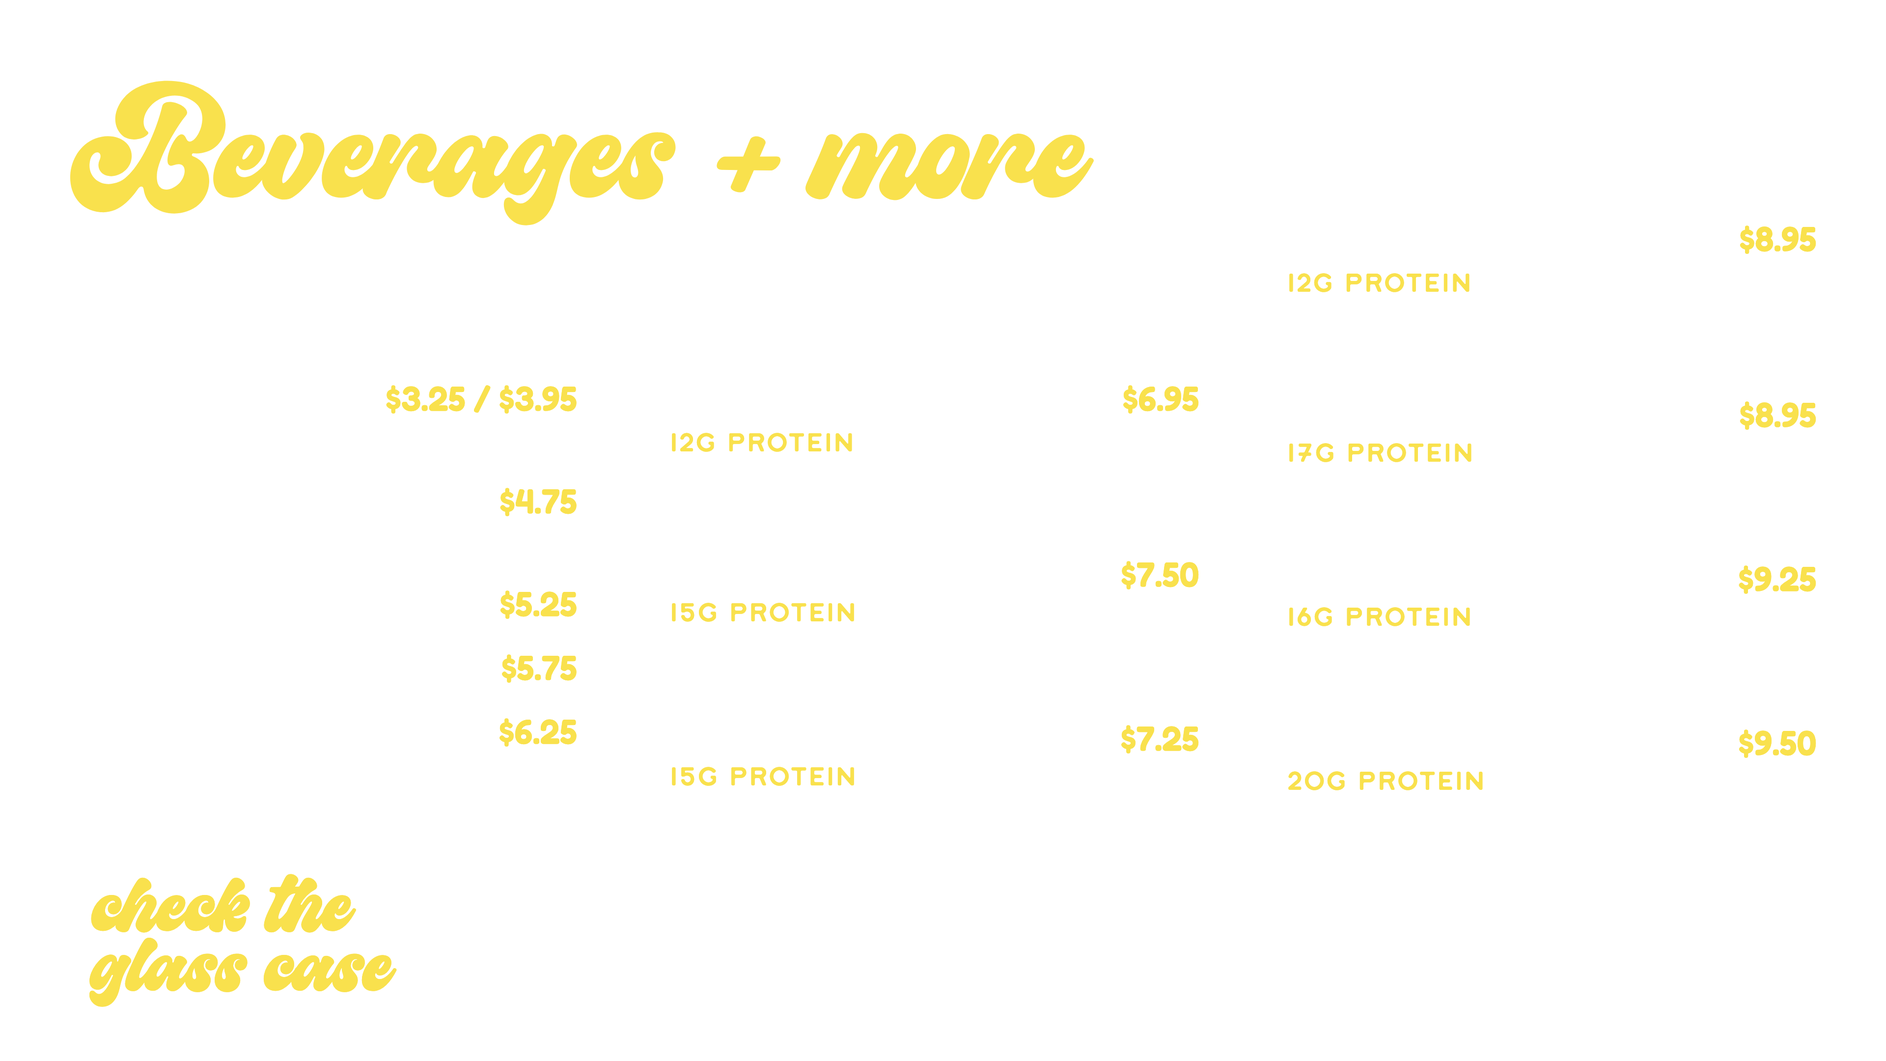
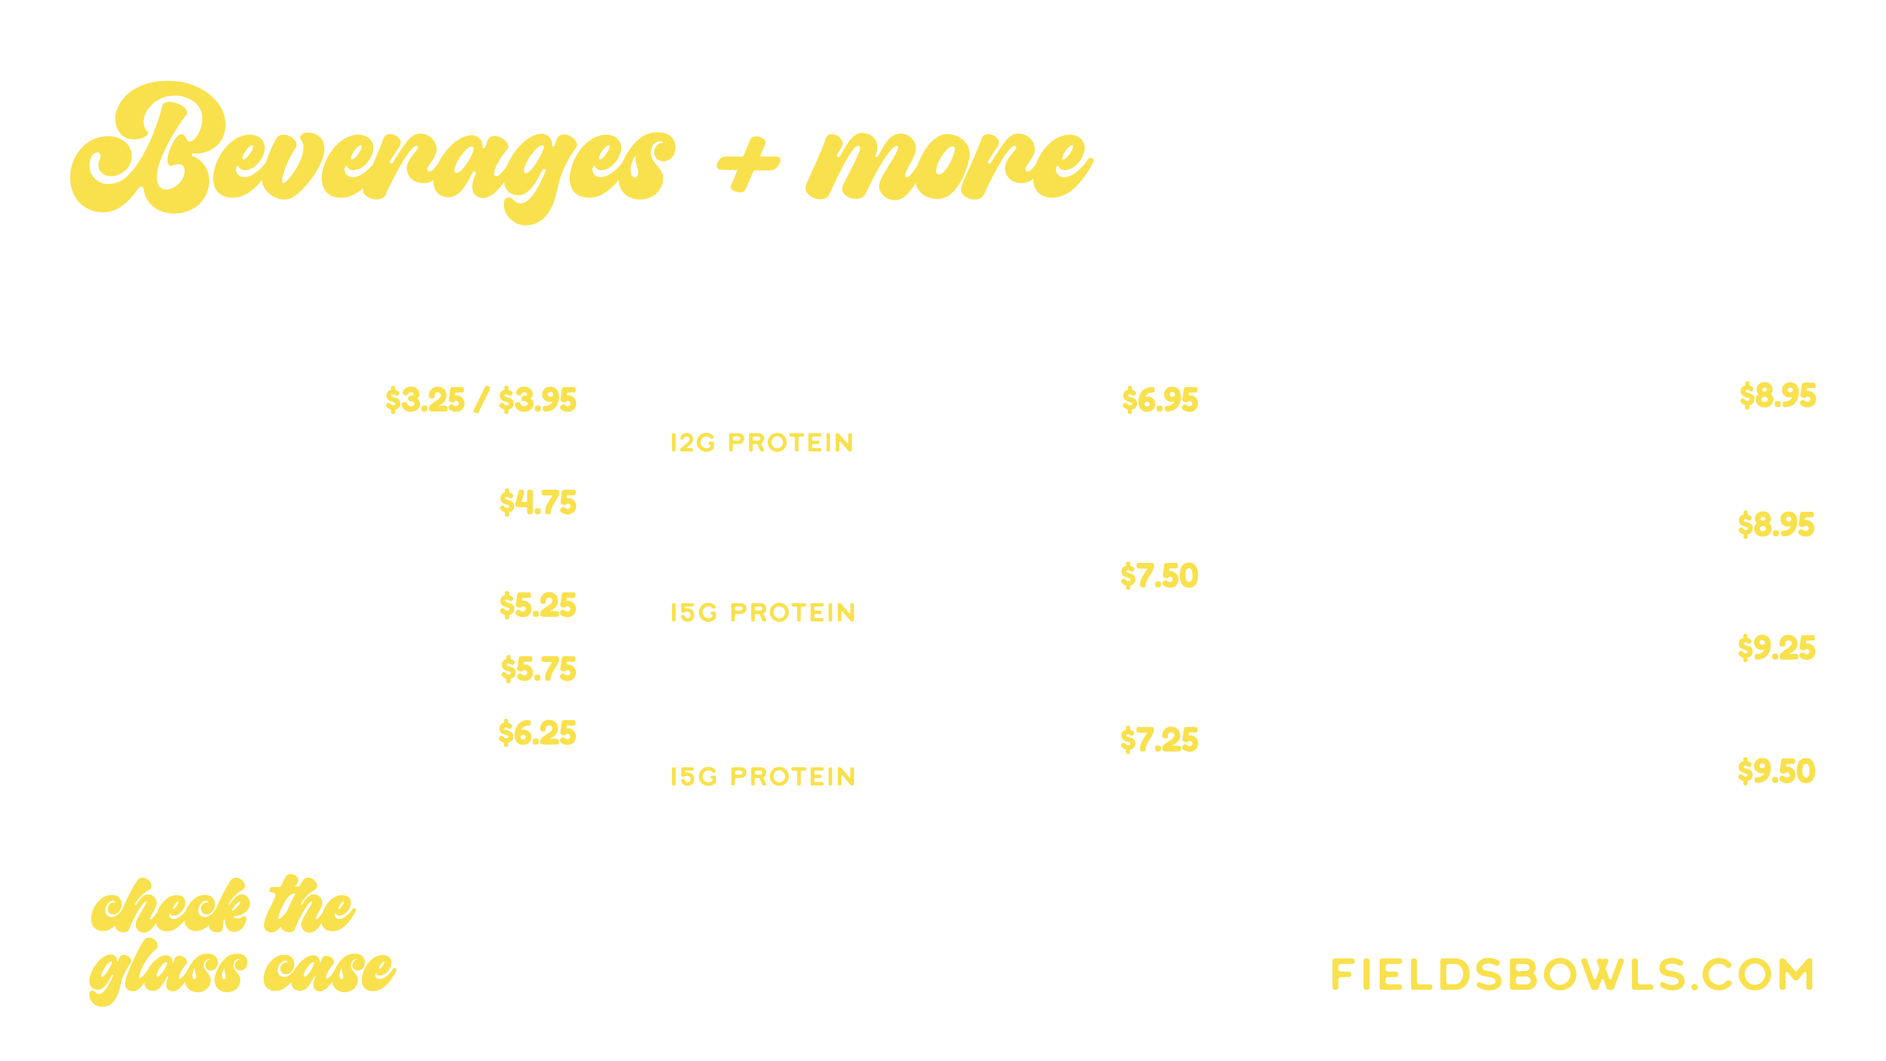
Grass D3 from Figma "Beverages UPDATED": Refreshers, Matcha Latte, fieldsbowls.com
Smoothies replaced by Refreshers (Arnold Palmer, Valencia, Flamingo, Bluebird), Matcha
Protein Latte renamed Matcha Latte, item names in Heart of the Land, FIELDSBOWLS.COM
bottom right. Matches the Figma frame (79:1367) to within 1-3 px at 4K. Canvas D3 updated;
still, screen and text layers re-rendered (the Motion and Panorama videos carry no text).

diff --git a/design/Grass-Board3.dc.html b/design/Grass-Board3.dc.html
@@ -18,11 +18,12 @@ body{margin:0;font-family:'Fredoka', sans-serif;background:#1d2716;color:#ffffff
 </helmet>
 <div class="grass-bg" style="width: 3840px; height: 2160px; box-sizing: border-box; background-color: #1d2716; color: #ffffff; font-family: 'Fredoka', sans-serif; overflow: hidden; position: relative">
 <h2 style="position: absolute; left: 141px; top: 215.1px; margin: 0; font-family: 'Midstar', 'Fredoka', cursive; font-weight: 400; font-size: 282px; line-height: 121.8px; color: #f9e14d; white-space: nowrap">Beverages + more</h2>
-<div style="position: absolute; left: 189px; top: 595px; width: 986px; display: flex; flex-direction: column; gap: 86px"><div style="position: relative; height: 92.296875px"><span style="position: absolute; left: 0; top: -23.9px; font-family: 'Heart of the Land', 'Fredoka', sans-serif; font-weight: 400; font-size: 110px; line-height: 121.8px; white-space: nowrap">Boxcar Coffee</span></div><div style="display: flex; flex-direction: column; gap: 54px"><div style="display: flex; flex-direction: column; gap: 14px"><div style="position: relative; top: 1px; display: flex; justify-content: space-between; align-items: flex-start; width: 986px; height: 75.890625px; font-size: 78px; font-weight: 700; line-height: 73.6px; white-space: nowrap"><span>Drip Coffee</span><span style="color: #f9e14d; font-size: 70px; font-weight: 600">$3.25 / $3.95</span></div><p style="margin: 0; height: 65px; font-size: 52px; font-weight: 400; line-height: 64.4px; white-space: nowrap">Rotating Boxcar blend</p></div><div style="display: flex; flex-direction: column; gap: 14px"><div style="position: relative; top: 1px; display: flex; justify-content: space-between; align-items: flex-start; width: 986px; height: 75.890625px; font-size: 78px; font-weight: 700; line-height: 73.6px; white-space: nowrap"><span>Cold Brew</span><span style="color: #f9e14d; font-size: 70px; font-weight: 600">$4.75</span></div><p style="margin: 0; height: 65px; font-size: 52px; font-weight: 400; line-height: 64.4px; white-space: nowrap">Smooth, bold, slow-steeped</p></div><div style="position: relative; top: 1px; display: flex; justify-content: space-between; align-items: flex-start; width: 986px; height: 75.890625px; font-size: 78px; font-weight: 700; line-height: 73.6px; white-space: nowrap"><span>Nitro Cold Brew</span><span style="color: #f9e14d; font-size: 70px; font-weight: 600">$5.25</span></div><div style="position: relative; top: 1px; display: flex; justify-content: space-between; align-items: flex-start; width: 986px; height: 75.890625px; font-size: 78px; font-weight: 700; line-height: 73.6px; white-space: nowrap"><span>Oat Milk Latte</span><span style="color: #f9e14d; font-size: 70px; font-weight: 600">$5.75</span></div><div style="position: relative; top: 1px; display: flex; justify-content: space-between; align-items: flex-start; width: 986px; height: 75.890625px; font-size: 78px; font-weight: 700; line-height: 73.6px; white-space: nowrap"><span>Vanilla Sea Salt Latte</span><span style="color: #f9e14d; font-size: 70px; font-weight: 600">$6.25</span></div></div></div>
-<div style="position: absolute; left: 1365px; top: 595px; width: 1066.65625px; display: flex; flex-direction: column; gap: 86px"><div style="position: relative; height: 92.296875px"><span style="position: absolute; left: 0; top: -23.9px; font-family: 'Heart of the Land', 'Fredoka', sans-serif; font-weight: 400; font-size: 110px; line-height: 121.8px; white-space: nowrap">COFFEE PLUS+</span></div><div style="display: flex; flex-direction: column; gap: 54px"><div style="display: flex; flex-direction: column; gap: 26px"><div style="position: relative; top: 1px; display: flex; justify-content: space-between; align-items: flex-start; width: 1076.5px; height: 75.890625px; font-size: 78px; font-weight: 700; line-height: 73.6px; white-space: nowrap"><span>Collagen Coffee</span><span style="color: #f9e14d; font-size: 70px; font-weight: 600">$6.95</span></div><div style="font-family: 'Heart of the Land', 'Fredoka', sans-serif; font-weight: 400; font-size: 52px; line-height: 46.2px; letter-spacing: 5.04px; text-transform: uppercase; color: #f9e14d; white-space: nowrap; height: 47px">12g protein</div><p style="margin: 0; height: 129px; font-size: 52px; font-weight: 400; line-height: 64.4px; white-space: nowrap">Cold brew, collagen peptides,<br>cinnamon, oat milk</p></div><div style="display: flex; flex-direction: column; gap: 14px"><div style="position: relative; top: 1px; display: flex; justify-content: space-between; align-items: flex-start; width: 1076.5px; height: 75.890625px; font-size: 78px; font-weight: 700; line-height: 73.6px; white-space: nowrap"><span>Protein Coffee</span><span style="color: #f9e14d; font-size: 70px; font-weight: 600">$7.50</span></div><div style="font-family: 'Heart of the Land', 'Fredoka', sans-serif; font-weight: 400; font-size: 52px; line-height: 46.2px; letter-spacing: 5.04px; text-transform: uppercase; color: #f9e14d; white-space: nowrap; height: 47px">15g protein</div><p style="margin: 0; height: 129px; font-size: 52px; font-weight: 400; line-height: 64.4px; white-space: nowrap">Cold brew, vanilla protein, almond<br>butter, banana, oat milk</p></div><div style="display: flex; flex-direction: column; gap: 14px"><div style="position: relative; top: 1px; display: flex; justify-content: space-between; align-items: flex-start; width: 1076.5px; height: 75.890625px; font-size: 78px; font-weight: 700; line-height: 73.6px; white-space: nowrap"><span>Matcha Protein Latte</span><span style="color: #f9e14d; font-size: 70px; font-weight: 600">$7.25</span></div><div style="font-family: 'Heart of the Land', 'Fredoka', sans-serif; font-weight: 400; font-size: 52px; line-height: 46.2px; letter-spacing: 5.04px; text-transform: uppercase; color: #f9e14d; white-space: nowrap; height: 47px">15g protein</div><p style="margin: 0; height: 65px; font-size: 52px; font-weight: 400; line-height: 64.4px; white-space: nowrap">Ceremonial matcha, vanilla protein, oat milk</p></div></div></div>
-<div style="position: absolute; left: 2622px; top: 270px; width: 1066.65625px; display: flex; flex-direction: column; gap: 86px"><div style="position: relative; height: 92.296875px"><span style="position: absolute; left: 0; top: -23.9px; font-family: 'Heart of the Land', 'Fredoka', sans-serif; font-weight: 400; font-size: 110px; line-height: 121.8px; white-space: nowrap">SMOOTHIES</span></div><div style="display: flex; flex-direction: column; gap: 54px"><div style="display: flex; flex-direction: column; gap: 26px"><div style="position: relative; top: 1px; display: flex; justify-content: space-between; align-items: flex-start; width: 1076.5px; height: 75.890625px; font-size: 78px; font-weight: 700; line-height: 73.6px; white-space: nowrap"><span>Golden Hour</span><span style="color: #f9e14d; font-size: 70px; font-weight: 600">$8.95</span></div><div style="font-family: 'Heart of the Land', 'Fredoka', sans-serif; font-weight: 400; font-size: 52px; line-height: 46.2px; letter-spacing: 5.04px; text-transform: uppercase; color: #f9e14d; white-space: nowrap; height: 47px">12g protein</div><p style="margin: 0; height: 129px; font-size: 52px; font-weight: 400; line-height: 64.4px; white-space: nowrap">Banana, mango, pineapple, collagen,<br>coconut milk</p></div><div style="display: flex; flex-direction: column; gap: 14px"><div style="position: relative; top: 1px; display: flex; justify-content: space-between; align-items: flex-start; width: 1076.5px; height: 75.890625px; font-size: 78px; font-weight: 700; line-height: 73.6px; white-space: nowrap"><span>Berry Bloom</span><span style="color: #f9e14d; font-size: 70px; font-weight: 600">$8.95</span></div><div style="font-family: 'Heart of the Land', 'Fredoka', sans-serif; font-weight: 400; font-size: 52px; line-height: 46.2px; letter-spacing: 5.04px; text-transform: uppercase; color: #f9e14d; white-space: nowrap; height: 47px">17g protein</div><p style="margin: 0; height: 129px; font-size: 52px; font-weight: 400; line-height: 64.4px; white-space: nowrap">Mixed berries, banana, almond butter,<br>protein, oat milk</p></div><div style="display: flex; flex-direction: column; gap: 14px"><div style="position: relative; top: 1px; display: flex; justify-content: space-between; align-items: flex-start; width: 1076.5px; height: 75.890625px; font-size: 78px; font-weight: 700; line-height: 73.6px; white-space: nowrap"><span>Green Fuel</span><span style="color: #f9e14d; font-size: 70px; font-weight: 600">$9.25</span></div><div style="font-family: 'Heart of the Land', 'Fredoka', sans-serif; font-weight: 400; font-size: 52px; line-height: 46.2px; letter-spacing: 5.04px; text-transform: uppercase; color: #f9e14d; white-space: nowrap; height: 47px">16g protein</div><p style="margin: 0; height: 129px; font-size: 52px; font-weight: 400; line-height: 64.4px; white-space: nowrap">Spinach, avocado, pineapple, mint,<br>protein, almond milk</p></div><div style="display: flex; flex-direction: column; gap: 14px"><div style="position: relative; top: 1px; display: flex; justify-content: space-between; align-items: flex-start; width: 1076.5px; height: 75.890625px; font-size: 78px; font-weight: 700; line-height: 73.6px; white-space: nowrap"><span>Mocha Charge</span><span style="color: #f9e14d; font-size: 70px; font-weight: 600">$9.50</span></div><div style="font-family: 'Heart of the Land', 'Fredoka', sans-serif; font-weight: 400; font-size: 52px; line-height: 46.2px; letter-spacing: 5.04px; text-transform: uppercase; color: #f9e14d; white-space: nowrap; height: 47px">20g protein</div><p style="margin: 0; height: 65px; font-size: 52px; font-weight: 400; line-height: 64.4px; white-space: nowrap">Cold brew, cacao, banana, protein, oat milk</p></div></div></div>
+<div style="position: absolute; left: 189px; top: 595px; width: 986px; display: flex; flex-direction: column; gap: 86px"><div style="position: relative; height: 92.296875px"><span style="position: absolute; left: 0; top: -23.9px; font-family: 'Heart of the Land', 'Fredoka', sans-serif; font-weight: 400; font-size: 110px; line-height: 121.8px; white-space: nowrap">Boxcar Coffee</span></div><div style="display: flex; flex-direction: column; gap: 54px"><div style="display: flex; flex-direction: column; gap: 14px"><div style="position: relative; width: 986px; height: 75.890625px"><span style="position: absolute; left: 0; top: -23.9px; font-family: 'Heart of the Land', 'Fredoka', sans-serif; font-weight: 400; font-size: 80px; line-height: 121.8px; white-space: nowrap">Drip Coffee</span><span style="position: absolute; left: 596px; top: 2px; color: #f9e14d; font-size: 70px; font-weight: 600; line-height: 73.6px; white-space: nowrap">$3.25 / $3.95</span></div><p style="margin: 0; height: 65px; font-size: 52px; font-weight: 400; line-height: 64.4px; white-space: nowrap">Rotating Boxcar blend</p></div><div style="display: flex; flex-direction: column; gap: 14px"><div style="position: relative; width: 986px; height: 75.890625px"><span style="position: absolute; left: 0; top: -23.9px; font-family: 'Heart of the Land', 'Fredoka', sans-serif; font-weight: 400; font-size: 80px; line-height: 121.8px; white-space: nowrap">Cold Brew</span><span style="position: absolute; left: 828px; top: 2px; color: #f9e14d; font-size: 70px; font-weight: 600; line-height: 73.6px; white-space: nowrap">$4.75</span></div><p style="margin: 0; height: 65px; font-size: 52px; font-weight: 400; line-height: 64.4px; white-space: nowrap">Smooth, bold, slow-steeped</p></div><div style="position: relative; width: 986px; height: 75.890625px"><span style="position: absolute; left: 0; top: -23.9px; font-family: 'Heart of the Land', 'Fredoka', sans-serif; font-weight: 400; font-size: 80px; line-height: 121.8px; white-space: nowrap">Nitro Cold Brew</span><span style="position: absolute; left: 828px; top: 2px; color: #f9e14d; font-size: 70px; font-weight: 600; line-height: 73.6px; white-space: nowrap">$5.25</span></div><div style="position: relative; width: 986px; height: 75.890625px"><span style="position: absolute; left: 0; top: -23.9px; font-family: 'Heart of the Land', 'Fredoka', sans-serif; font-weight: 400; font-size: 80px; line-height: 121.8px; white-space: nowrap">Oat Milk Latte</span><span style="position: absolute; left: 831px; top: 2px; color: #f9e14d; font-size: 70px; font-weight: 600; line-height: 73.6px; white-space: nowrap">$5.75</span></div><div style="position: relative; width: 986px; height: 75.890625px"><span style="position: absolute; left: 0; top: -5.5px; font-family: 'Heart of the Land', 'Fredoka', sans-serif; font-weight: 400; font-size: 80px; line-height: 97.5px">Vanilla Sea<br>Salt Latte</span><span style="position: absolute; left: 826px; top: 2px; color: #f9e14d; font-size: 70px; font-weight: 600; line-height: 73.6px; white-space: nowrap">$6.25</span></div></div></div>
+<div style="position: absolute; left: 1365px; top: 595px; width: 1066.65625px; display: flex; flex-direction: column; gap: 86px"><div style="position: relative; height: 92.296875px"><span style="position: absolute; left: 0; top: -23.9px; font-family: 'Heart of the Land', 'Fredoka', sans-serif; font-weight: 400; font-size: 110px; line-height: 121.8px; white-space: nowrap">COFFEE PLUS+</span></div><div style="display: flex; flex-direction: column; gap: 54px"><div style="display: flex; flex-direction: column; gap: 26px"><div style="position: relative; width: 1066.65625px; height: 75.890625px"><span style="position: absolute; left: 0; top: -23.9px; font-family: 'Heart of the Land', 'Fredoka', sans-serif; font-weight: 400; font-size: 80px; line-height: 121.8px; white-space: nowrap">Collagen Coffee</span><span style="position: absolute; left: 920.14px; top: 2px; color: #f9e14d; font-size: 70px; font-weight: 600; line-height: 73.6px; white-space: nowrap">$6.95</span></div><div style="font-family: 'Heart of the Land', 'Fredoka', sans-serif; font-weight: 400; font-size: 52px; line-height: 46.2px; letter-spacing: 5.04px; text-transform: uppercase; color: #f9e14d; white-space: nowrap; height: 47px">12g protein</div><p style="margin: 0; height: 129px; font-size: 52px; font-weight: 400; line-height: 64.4px; white-space: nowrap">Cold brew, collagen peptides,<br>cinnamon, oat milk</p></div><div style="display: flex; flex-direction: column; gap: 14px"><div style="position: relative; width: 1066.65625px; height: 75.890625px"><span style="position: absolute; left: 0; top: -23.9px; font-family: 'Heart of the Land', 'Fredoka', sans-serif; font-weight: 400; font-size: 80px; line-height: 121.8px; white-space: nowrap">Protein Coffee</span><span style="position: absolute; left: 916.66px; top: 2px; color: #f9e14d; font-size: 70px; font-weight: 600; line-height: 73.6px; white-space: nowrap">$7.50</span></div><div style="font-family: 'Heart of the Land', 'Fredoka', sans-serif; font-weight: 400; font-size: 52px; line-height: 46.2px; letter-spacing: 5.04px; text-transform: uppercase; color: #f9e14d; white-space: nowrap; height: 47px">15g protein</div><p style="margin: 0; height: 129px; font-size: 52px; font-weight: 400; line-height: 64.4px; white-space: nowrap">Cold brew, vanilla protein, almond<br>butter, banana, oat milk</p></div><div style="display: flex; flex-direction: column; gap: 14px"><div style="position: relative; width: 1066.65625px; height: 75.890625px"><span style="position: absolute; left: 0; top: -23.9px; font-family: 'Heart of the Land', 'Fredoka', sans-serif; font-weight: 400; font-size: 80px; line-height: 121.8px; white-space: nowrap">Matcha Latte</span><span style="position: absolute; left: 916.38px; top: 2px; color: #f9e14d; font-size: 70px; font-weight: 600; line-height: 73.6px; white-space: nowrap">$7.25</span></div><div style="font-family: 'Heart of the Land', 'Fredoka', sans-serif; font-weight: 400; font-size: 52px; line-height: 46.2px; letter-spacing: 5.04px; text-transform: uppercase; color: #f9e14d; white-space: nowrap; height: 47px">15g protein</div><p style="margin: 0; height: 65px; font-size: 52px; font-weight: 400; line-height: 64.4px; white-space: nowrap">Ceremonial matcha, vanilla protein, oat milk</p></div></div></div>
+<div style="position: absolute; left: 2622px; top: 586px; width: 1066.65625px; display: flex; flex-direction: column; gap: 86px"><div style="position: relative; height: 92.296875px"><span style="position: absolute; left: 0; top: -23.9px; font-family: 'Heart of the Land', 'Fredoka', sans-serif; font-weight: 400; font-size: 110px; line-height: 121.8px; white-space: nowrap">REFRESHERS</span></div><div style="display: flex; flex-direction: column; gap: 96px"><div style="display: flex; flex-direction: column; gap: 26px"><div style="position: relative; width: 1066.65625px; height: 75.890625px"><span style="position: absolute; left: 0; top: -23.9px; font-family: 'Heart of the Land', 'Fredoka', sans-serif; font-weight: 400; font-size: 80px; line-height: 121.8px; white-space: nowrap">Arnold Palmer</span><span style="position: absolute; left: 920.14px; top: 2px; color: #f9e14d; font-size: 70px; font-weight: 600; line-height: 73.6px; white-space: nowrap">$8.95</span></div><p style="margin: 0; height: 65px; font-size: 52px; font-weight: 400; line-height: 64.4px; white-space: nowrap">Sweet tea &amp; lemonade</p></div><div style="display: flex; flex-direction: column; gap: 14px"><div style="position: relative; width: 1066.65625px; height: 75.890625px"><span style="position: absolute; left: 0; top: -23.9px; font-family: 'Heart of the Land', 'Fredoka', sans-serif; font-weight: 400; font-size: 80px; line-height: 121.8px; white-space: nowrap">Valencia</span><span style="position: absolute; left: 916.66px; top: 2px; color: #f9e14d; font-size: 70px; font-weight: 600; line-height: 73.6px; white-space: nowrap">$8.95</span></div><p style="margin: 0; height: 65px; font-size: 52px; font-weight: 400; line-height: 64.4px; white-space: nowrap">Fresh orange juice &amp; lemon</p></div><div style="display: flex; flex-direction: column; gap: 14px"><div style="position: relative; width: 1066.65625px; height: 75.890625px"><span style="position: absolute; left: 0; top: -23.9px; font-family: 'Heart of the Land', 'Fredoka', sans-serif; font-weight: 400; font-size: 80px; line-height: 121.8px; white-space: nowrap">Flamingo</span><span style="position: absolute; left: 916.38px; top: 2px; color: #f9e14d; font-size: 70px; font-weight: 600; line-height: 73.6px; white-space: nowrap">$9.25</span></div><p style="margin: 0; height: 65px; font-size: 52px; font-weight: 400; line-height: 64.4px; white-space: nowrap">Tropical hibiscus &amp; lemonade</p></div><div style="display: flex; flex-direction: column; gap: 14px"><div style="position: relative; width: 1066.65625px; height: 75.890625px"><span style="position: absolute; left: 0; top: -23.9px; font-family: 'Heart of the Land', 'Fredoka', sans-serif; font-weight: 400; font-size: 80px; line-height: 121.8px; white-space: nowrap">Bluebird</span><span style="position: absolute; left: 916.38px; top: 2px; color: #f9e14d; font-size: 70px; font-weight: 600; line-height: 73.6px; white-space: nowrap">$9.50</span></div><p style="margin: 0; height: 65px; font-size: 52px; font-weight: 400; line-height: 64.4px; white-space: nowrap">Refreshing blueberry lavender iced tea</p></div></div></div>
 <p style="position: absolute; left: 189px; top: 1763.2px; margin: 0; font-family: 'Midstar', 'Fredoka', cursive; font-weight: 400; font-size: 160px; line-height: 121.8px; color: #f9e14d; white-space: nowrap">check the<br>glass case</p>
 <p style="position: absolute; left: 901px; top: 1797px; margin: 0; font-size: 90px; font-weight: 400; line-height: 109px; white-space: nowrap">for snacks, fresh juices,<br>baked goods &amp; more</p>
+<p style="position: absolute; right: 135px; top: 1925px; margin: 0; font-family: 'Heart of the Land', 'Fredoka', sans-serif; font-weight: 400; font-size: 90px; letter-spacing: 9px; color: #f9e14d; white-space: nowrap">FIELDSBOWLS.COM</p>
 </div>
 </x-dc>
 <script type="text/x-dc" data-dc-script data-props='{"$preview":{"width":3840,"height":2160}}'>

diff --git a/assets/boards/versions.js b/assets/boards/versions.js
@@ -16,10 +16,10 @@ window.BOARD_VERSIONS = {
   "forest/salads-screen.png": "aa6ef7180a",
   "forest/salads.mp4": "8639fc3c96",
   "forest/salads.png": "0ee02eaa35",
-  "grass/beverages-screen.png": "08940309b5",
-  "grass/beverages-text-screen.png": "11d1d4f046",
-  "grass/beverages-text.png": "df7681f030",
-  "grass/beverages.png": "8fed21a6f9",
+  "grass/beverages-screen.png": "90b6253db6",
+  "grass/beverages-text-screen.png": "05500ac0d7",
+  "grass/beverages-text.png": "9bb8a035c2",
+  "grass/beverages.png": "db8b476949",
   "grass/build-screen.png": "4b05a9e280",
   "grass/build-text-screen.png": "3c0a7ad5d2",
   "grass/build-text.png": "1e1e571777",

diff --git a/index.html b/index.html
@@ -11,7 +11,7 @@
 <body class="page-scene">
 <main id="scene" class="scene" aria-label="Menu boards in store"></main>
 <p class="rotate-hint">Turn your phone sideways for a closer look</p>
-<script src="assets/boards/versions.js?v=31cff0e4e4"></script>
+<script src="assets/boards/versions.js?v=79b7a4432c"></script>
 <script src="js/config.js?v=f661e99861"></script>
 <script src="js/common.js?v=c0caa4e060"></script>
 <script src="js/scene.js?v=85c7880aa2"></script>

diff --git a/gallery.html b/gallery.html
@@ -16,7 +16,7 @@
   <nav aria-label="Colorways and boards"><ol id="toc" class="toc"></ol></nav>
 </aside>
 <main id="doc" class="doc"></main>
-<script src="assets/boards/versions.js?v=31cff0e4e4"></script>
+<script src="assets/boards/versions.js?v=79b7a4432c"></script>
 <script src="js/config.js?v=f661e99861"></script>
 <script src="js/common.js?v=c0caa4e060"></script>
 <script src="js/gallery.js?v=1659b3a1e8"></script>
